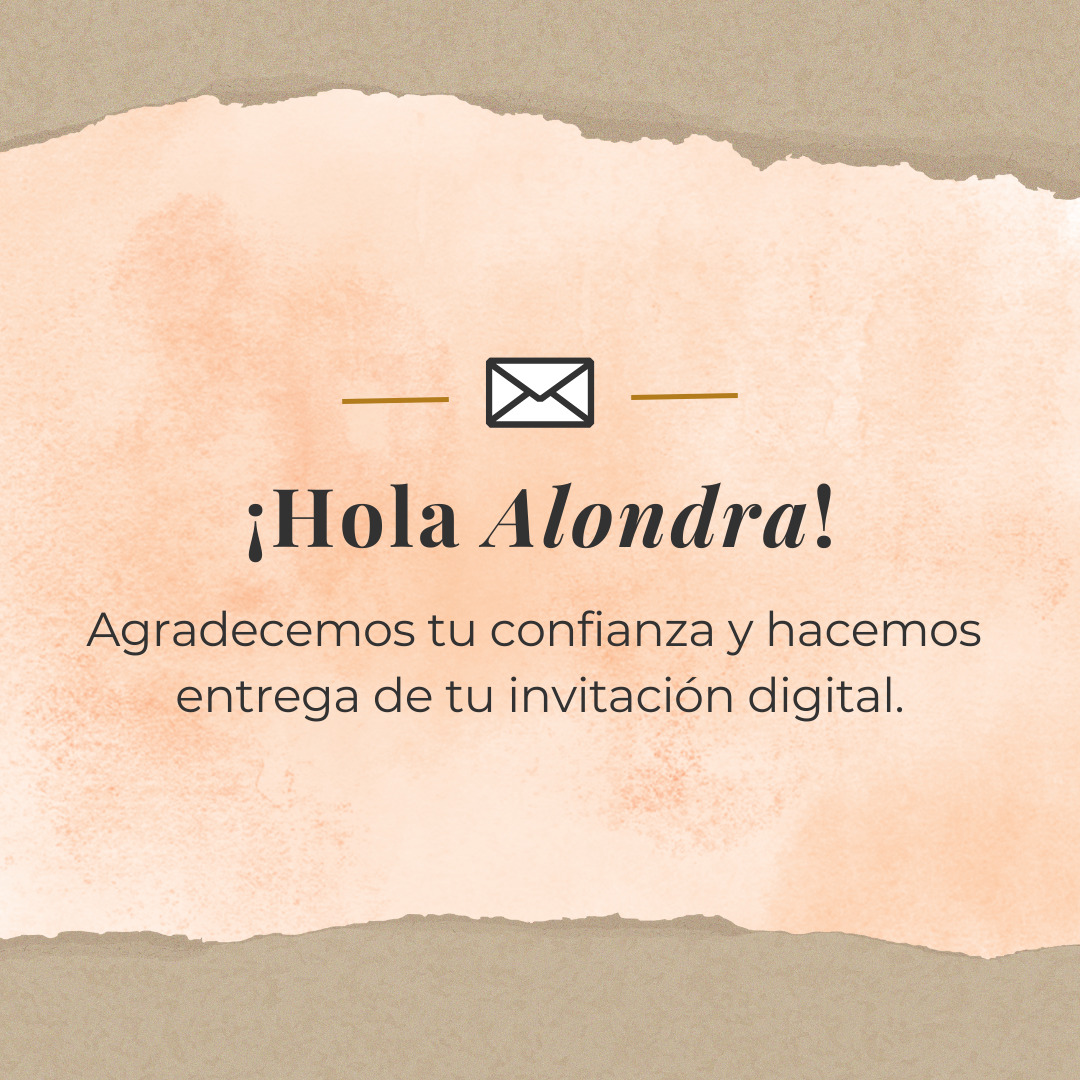
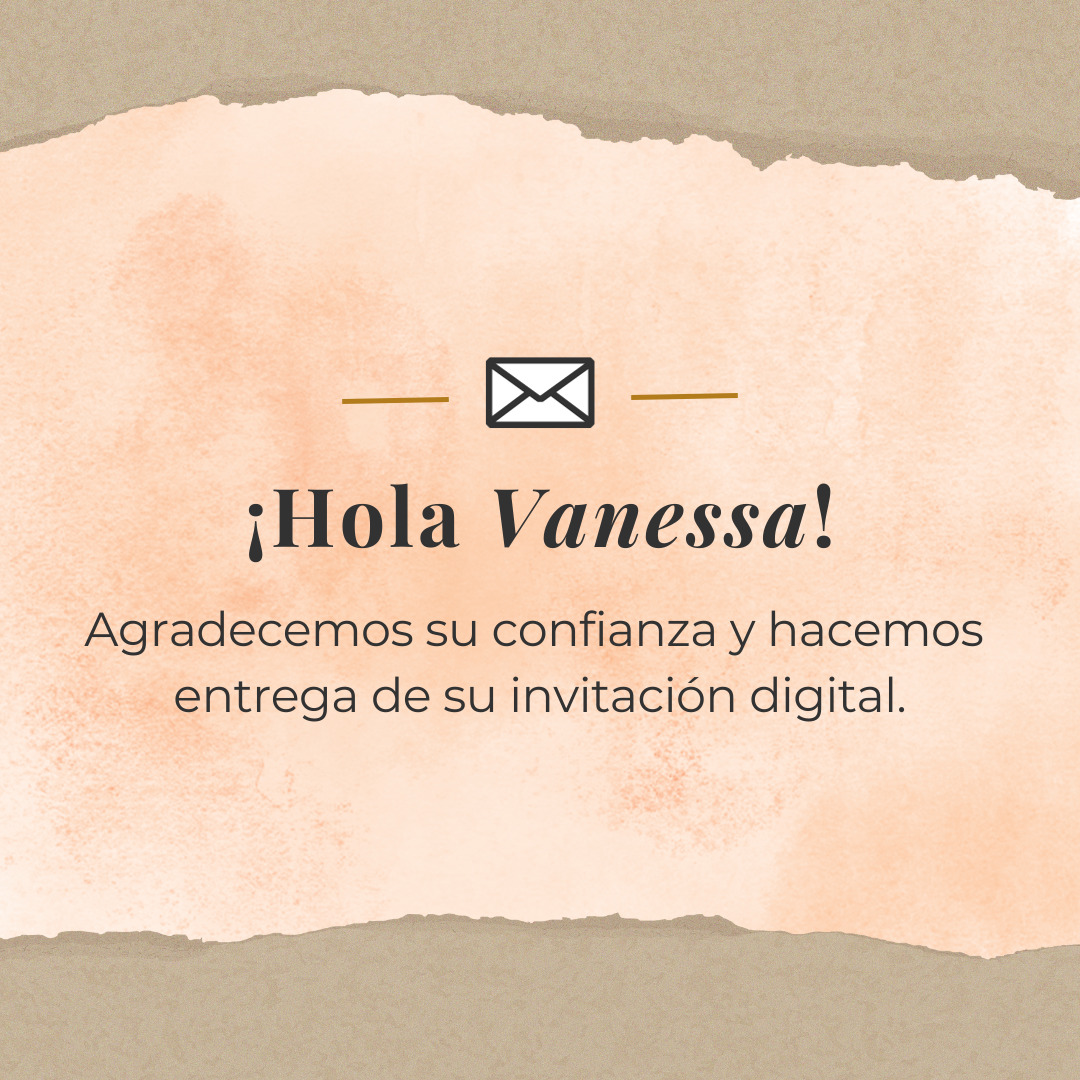
second commit

diff --git a/inicio.html b/inicio.html
@@ -7,14 +7,14 @@
     <noscript>
             <meta http-equiv="refresh" content="60">
         </noscript>
-        <meta name="description" content="Te invitamos a ser parte de este momento tan especial."/>
+        <meta name="description" content="¡Estás invitado! Da click y entra a tu invitación."/>
         <meta property="og:locale" content="es_ES"/>
         <meta property="og:type" content="website"/>
-        <meta property="og:title" content="Valentina | ¡Mis 3 Años!"/>
-        <meta property="og:description" content="Te invitamos a ser parte de este momento tan especial."/>
-        <meta property="og:url" content="https://valentinamis3anos.github.io/inicio.html"/>
+        <meta property="og:title" content="Vanessa | ¡Mis 22 Años!"/>
+        <meta property="og:description" content="¡Estás invitado! Da click y entra a tu invitación."/>
+        <meta property="og:url" content="https://mis22vanessasantellano.github.io/inicio.html"/>
         <meta property="article:modified_time" content="2023-02-19T17:24:46+00:00"/>
-        <meta property="og:image" content="https://valentinamis3anos.github.io/img/portadaMensaje.jpg"/>
+        <meta property="og:image" content="https://mis22vanessasantellano.github.io/img/portada.jpg"/>
         <meta property="og:image:width" content="587"/>
         <meta property="og:image:height" content="545"/>
         <meta property="og:image:type" content="image/jpeg"/>
@@ -25,53 +25,53 @@
       "@graph": [
           {
               "@type": "Organization",
-              "@id": "https://valentinamis3anos.github.io/inicio.html/#/schema/Organization/1",
+              "@id": "https://mis22vanessasantellano.github.io/inicio.html/#/schema/Organization/1",
               "name": "Valentina | ¡Mis 3 Años!",
-              "url": "https://valentinamis3anos.github.io/inicio.html",
+              "url": "https://mis22vanessasantellano.github.io/inicio.html",
               "sameAs": [
               ],
               "logo": {
                   "@type": "ImageObject",
-                  "@id": "https://valentinamis3anos.github.io/img/portadaMensaje.jpg",
-                  "url": "https://valentinamis3anos.github.io/img/portadaMensaje.jpg",
-                  "contentUrl": "https://valentinamis3anos.github.io/img/portadaMensaje.jpg",
-                  "width": 587,
-                  "height": 545,
+                  "@id": "https://mis22vanessasantellano.github.io/img/portada.jpg",
+                  "url": "https://mis22vanessasantellano.github.io/img/portada.jpg",
+                  "contentUrl": "https://mis22vanessasantellano.github.io/img/portada.jpg",
+                  "width": 1080,
+                  "height": 1080,
                   "caption": "Example Image"
               },
               "image": {
-                  "@id": "https://valentinamis3anos.github.io/img/portadaMensaje.jpg"
+                  "@id": "https://mis22vanessasantellano.github.io/img/portada.jpg"
               }
           },
           {
               "@type": "WebSite",
-              "@id": "https://valentinamis3anos.github.io/inicio.html/#/schema/WebSite/1",
-              "url": "https://valentinamis3anos.github.io/inicio.html",
-              "name": "Valentina | ¡Mis 3 Años!",
+              "@id": "https://mis22vanessasantellano.github.io/inicio.html/#/schema/WebSite/1",
+              "url": "https://mis22vanessasantellano.github.io/inicio.html",
+              "name": "Vanessa | ¡Mis 22 Años!",
               "publisher": {
-                  "@id": "https://valentinamis3anos.github.io/inicio.html/#/schema/Organization/1"
+                  "@id": "https://mis22vanessasantellano.github.io/inicio.html/#/schema/Organization/1"
               },
               "potentialAction": {
                   "@type": "SearchAction",
-                  "target": "https://valentinamis3anos.github.io/inicio.html/?s={search_term_string}",
+                  "target": "https://mis22vanessasantellano.github.io/inicio.html/?s={search_term_string}",
                   "query-input": "required name=search_term_string"
               }
           },
           {
               "@type": "WebPage",
-              "@id": "https://valentinamis3anos.github.io/inicio.html",
-              "url": "https://valentinamis3anos.github.io/inicio.html",
+              "@id": "https://mis22vanessasantellano.github.io/inicio.html",
+              "url": "https://mis22vanessasantellano.github.io/inicio.html",
               "inLanguage": "es",
               "name": "Example Page",
               "isPartOf": {
-                  "@id": "https://valentinamis3anos.github.io/inicio.html/#/schema/WebSite/1"
+                  "@id": "https://mis22vanessasantellano.github.io/inicio.html/#/schema/WebSite/1"
               },
               "about": {
-                  "@id": "https://valentinamis3anos.github.io/inicio.html/#/schema/Organization/1"
+                  "@id": "https://mis22vanessasantellano.github.io/inicio.html/#/schema/Organization/1"
               },
               "datePublished": "2015-09-14T08:13:22+00:00",
               "dateModified": "2019-03-28T12:46:37+00:00",
-              "description": "Te invitamos a ser parte de este momento tan especial."
+              "description": "¡Estás invitado! Da click y entra a tu invitación."
           }
       ]
   }
@@ -81,8 +81,8 @@
         document.getElementById("musica1").play();
     }
 </script>
-         <link rel="alternate" type="application/rss+xml" title=" &raquo; Feed" href="https://valentinamis3anos.github.io/inicio.html/feed/"/>
-        <link rel="alternate" type="application/rss+xml" title=" &raquo; Feed de los comentarios" href="https://valentinamis3anos.github.io/inicio.html/comments/feed/"/>
+         <link rel="alternate" type="application/rss+xml" title=" &raquo; Feed" href="https://mis22vanessasantellano.github.io/inicio.html/feed/"/>
+        <link rel="alternate" type="application/rss+xml" title=" &raquo; Feed de los comentarios" href="https://mis22vanessasantellano.github.io/inicio.html/comments/feed/"/>
 
     <link rel="stylesheet" href="https://stackpath.bootstrapcdn.com/bootstrap/4.2.1/css/bootstrap.min.css" integrity="sha384-GJzZqFGwb1QTTN6wy59ffF1BuGJpLSa9DkKMp0DgiMDm4iYMj70gZWKYbI706tWS" crossorigin="anonymous">
     <link rel="stylesheet" href="css/styles.css">
@@ -166,7 +166,7 @@
             <h6 class='lugar col-12 col-lg-12 mt-5 text-center text-white' >Calle Benito Juárez S/N entre avenida Hidalgo y Francisco Javier Mina.</h6> 
             <p class='hora col-12 col-lg-12 mt-3 text-center text-white' ><b>5:00 pm.</b></p>
             <div class="row justify-content-center ml-1">
-                <a href="https://maps.app.goo.gl/rt2mxd7tz4UWfEVz5" class="btnComoLlegar col-8"><i class="fas fa-location-arrow mr-2"></i> Como llegar</a>
+                <a href="https://maps.app.goo.gl/FcPq5u4zajD1VCSQ7" class="btnComoLlegar col-8"><i class="fas fa-location-arrow mr-2"></i> Como llegar</a>
                 <img class="text-center col-9 col-md-6 mt-4 mb-2"  src="img/bratzlogo2.png" >   
             </div>
 
@@ -213,7 +213,7 @@
         <img class="col-10 col-md-4 mt-4"  src="img/bratzasistencia.png" >   
     </div>
 
-<p class='textoasistencia col-lg-12 mb-4 mt-0 text-center' style="font-size: 17px; color:#EBE2B5; font-family: 'Black Han Sans', sans-serif; -webkit-text-stroke-width: 1px; -webkit-text-stroke-color: #64116D;"><b>¿Dudas sobre nuestro evento? Puedes pedir información a través de nuestro chat de WhatsApp.</b></p> 
+<p class='textoasistencia col-lg-12 mb-4 mt-0 text-center' style="font-size: 17px; color:#EBE2B5; font-family: 'Black Han Sans', sans-serif; -webkit-text-stroke-width: 1px; -webkit-text-stroke-color: #64116D;"><b>¿Dudas sobre el evento? Puedes pedir información a través de mi chat de WhatsApp.</b></p> 
 <div class=" logos1 row justify-content-center align-items-center mb-5"> 
     <a  href="https://wa.me//526182226350?text=Confirmo%20mi%20asistencia." class="btnWhats text-center align-items-center col-6" style=""><b><i class="fa fa-whatsapp "></b></i> WhatsApp</a> 
 </div>  <br>

diff --git a/index.html b/index.html
@@ -11,11 +11,11 @@
         <meta name="description" content="Da click en el enlace para ver tu invitación."/>
         <meta property="og:locale" content="es_ES"/>
         <meta property="og:type" content="website"/>
-        <meta property="og:title" content="¡Hola Alondra!"/>
+        <meta property="og:title" content="¡Hola Vanessa!"/>
         <meta property="og:description" content="Da click en el enlace para ver tu invitación."/>
-        <meta property="og:url" content="https://labodadealondrayeduardo.github.io/index.html"/>
+        <meta property="og:url" content="https://mis22vanessasantellano.github.io/index.html"/>
         <meta property="article:modified_time" content="2023-02-19T17:24:46+00:00"/>
-        <meta property="og:image" content="https://labodadealondrayeduardo.github.io/img/portadaEnviar.jpg"/>
+        <meta property="og:image" content="https://mis22vanessasantellano.github.io/img/portadaEnviar.jpg"/>
         <meta property="og:image:width" content="1080"/>
         <meta property="og:image:height" content="1080"/>
         <meta property="og:image:type" content="image/jpeg"/>
@@ -26,49 +26,49 @@
       "@graph": [
           {
               "@type": "Organization",
-              "@id": "https://labodadealondrayeduardo.github.io/index.html/#/schema/Organization/1",
-              "name": "¡Hola Alondra!",
-              "url": "https://labodadealondrayeduardo.github.io/index.html",
+              "@id": "https://mis22vanessasantellano.github.io/index.html/#/schema/Organization/1",
+              "name": "¡Hola Vanessa!",
+              "url": "https://mis22vanessasantellano.github.io/index.html",
               "sameAs": [
               ],
               "logo": {
                   "@type": "ImageObject",
-                  "@id": "https://labodadealondrayeduardo.github.io/img/portadaEnviar.jpg",
-                  "url": "https://labodadealondrayeduardo.github.io/img/portadaEnviar.jpg",
-                  "contentUrl": "https://labodadealondrayeduardo.github.io/img/portadaEnviar.jpg",
+                  "@id": "https://mis22vanessasantellano.github.io/img/portadaEnviar.jpg",
+                  "url": "https://mis22vanessasantellano.github.io/img/portadaEnviar.jpg",
+                  "contentUrl": "https://mis22vanessasantellano.github.io/img/portadaEnviar.jpg",
                   "width": 1080,
                   "height": 1080,
                   "caption": "Example Image"
               },
               "image": {
-                  "@id": "https://labodadealondrayeduardo.github.io/img/portadaEnviar.jpg"
+                  "@id": "https://mis22vanessasantellano.github.io/img/portadaEnviar.jpg"
               }
           },
           {
               "@type": "WebSite",
-              "@id": "https://labodadealondrayeduardo.github.io/index.html/#/schema/WebSite/1",
-              "url": "https://labodadealondrayeduardo.github.io/index.html",
-              "name": "¡Hola Alondra!",
+              "@id": "https://mis22vanessasantellano.github.io/index.html/#/schema/WebSite/1",
+              "url": "https://mis22vanessasantellano.github.io/index.html",
+              "name": "¡Hola Vanessa!",
               "publisher": {
-                  "@id": "https://labodadealondrayeduardo.github.io/index.html/#/schema/Organization/1"
+                  "@id": "https://mis22vanessasantellano.github.io/index.html/#/schema/Organization/1"
               },
               "potentialAction": {
                   "@type": "SearchAction",
-                  "target": "https://labodadealondrayeduardo.github.io/index.html/?s={search_term_string}",
+                  "target": "https://mis22vanessasantellano.github.io/index.html/?s={search_term_string}",
                   "query-input": "required name=search_term_string"
               }
           },
           {
               "@type": "WebPage",
-              "@id": "https://labodadealondrayeduardo.github.io/index.html",
-              "url": "https://labodadealondrayeduardo.github.io/index.html",
+              "@id": "https://mis22vanessasantellano.github.io/index.html",
+              "url": "https://mis22vanessasantellano.github.io/index.html",
               "inLanguage": "es",
               "name": "Example Page",
               "isPartOf": {
-                  "@id": "https://labodadealondrayeduardo.github.io/index.html/#/schema/WebSite/1"
+                  "@id": "https://mis22vanessasantellano.github.io/index.html/#/schema/WebSite/1"
               },
               "about": {
-                  "@id": "https://labodadealondrayeduardo.github.io/index.html/#/schema/Organization/1"
+                  "@id": "https://mis22vanessasantellano.github.io/index.html/#/schema/Organization/1"
               },
               "datePublished": "2015-09-14T08:13:22+00:00",
               "dateModified": "2019-03-28T12:46:37+00:00",
@@ -78,8 +78,8 @@
   }
         </script>
 
-         <link rel="alternate" type="application/rss+xml" title=" &raquo; Feed" href="https://labodadealondrayeduardo.github.io/index.html/feed/"/>
-        <link rel="alternate" type="application/rss+xml" title=" &raquo; Feed de los comentarios" href="https://labodadealondrayeduardo.github.io/index.html/comments/feed/"/>
+         <link rel="alternate" type="application/rss+xml" title=" &raquo; Feed" href="https://mis22vanessasantellano.github.io/index.html/feed/"/>
+        <link rel="alternate" type="application/rss+xml" title=" &raquo; Feed de los comentarios" href="https://mis22vanessasantellano.github.io/index.html/comments/feed/"/>
         
     <link rel="stylesheet" href="https://stackpath.bootstrapcdn.com/bootstrap/4.2.1/css/bootstrap.min.css" integrity="sha384-GJzZqFGwb1QTTN6wy59ffF1BuGJpLSa9DkKMp0DgiMDm4iYMj70gZWKYbI706tWS" crossorigin="anonymous">
     <link rel="stylesheet" href="css/index.css">
